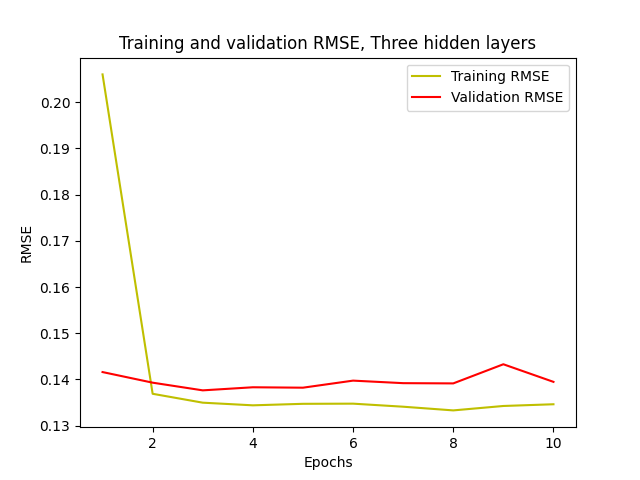
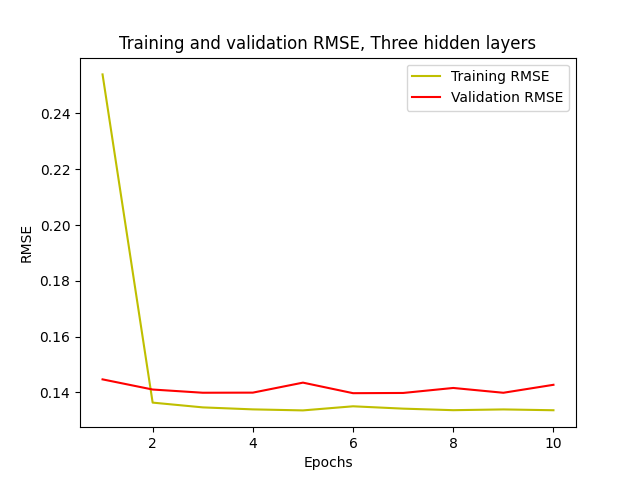
a

diff --git a/src/ann_one_hidden.py b/src/ann_one_hidden.py
@@ -2,6 +2,7 @@ import tensorflow as tf
 from tensorflow.keras.models import Sequential
 from tensorflow.keras.layers import Dense, Activation, Dropout
 from tensorflow.keras.optimizers import Adam
+from tensorflow.keras.callbacks import EarlyStopping
 from sklearn.model_selection import KFold
 from matplotlib import pyplot as plt
 
@@ -56,8 +57,9 @@ def plot_results(history, fold_no):
 
 if __name__ == "__main__":
     # Δημιουργούμε ένα parser για να εισάγουμε τον αριθμό των νευρώνων του κρυφού επιπέδου στο cli
-    parser = argparse.ArgumentParser(description="Neurons in the hidden layer")
+    parser = argparse.ArgumentParser(description="Train the neural network")
     parser.add_argument("--neurons", type=int, required=True)
+    parser.add_argument("--early_stopping", type=bool, default=False)
     args = parser.parse_args()
 
     X, Y = preprocessing.preprocess_data("Dataset/iphi2802.csv", max_features=1000)
@@ -76,9 +78,32 @@ if __name__ == "__main__":
 
         # Create a model for each fold
         model = build_model(hidden_layer_neurons=args.neurons)
-        history = model.fit(
-            train_X, train_Y, verbose=1, epochs=10, validation_data=(test_X, test_Y)
-        )
+        # Optional Early stopping
+        if args.early_stopping:
+            monitor = EarlyStopping(
+                monitor="val_RootMeanSquaredError",
+                patience=5,
+                verbose=1,
+                restore_best_weights=True,
+            )
+            # Train the model
+            history = model.fit(
+                train_X,
+                train_Y,
+                verbose=1,
+                epochs=40,
+                validation_data=(test_X, test_Y),
+                callbacks=[monitor],
+            )
+        else:
+            # Train the model
+            history = model.fit(
+                train_X,
+                train_Y,
+                verbose=1,
+                epochs=40,
+                validation_data=(test_X, test_Y),
+            )
 
         loss, rmse = model.evaluate(test_X, test_Y, verbose=1)
         rmse_per_fold.append(rmse)

diff --git a/src/ann_three_hidden.py b/src/ann_three_hidden.py
@@ -16,7 +16,7 @@ def build_model(hidden_layer_neurons):
     # Second Hidden layer
     model.add(Dense((hidden_layer_neurons * 2), activation="relu"))
     # Third Hidden layer
-    model.add(Dense((hidden_layer_neurons * 3), activation="relu"))
+    model.add(Dense((hidden_layer_neurons * 4), activation="relu"))
     model.add(Dense(1, activation="linear"))  # Output layer
     model.compile(
         loss=my_loss_function,

diff --git a/src/preprocessing.py b/src/preprocessing.py
@@ -1,6 +1,5 @@
 import pandas as pd
 from sklearn.feature_extraction.text import TfidfVectorizer
-from sklearn.model_selection import train_test_split
 
 
 def preprocess_data(path_to_dataset, max_features):
